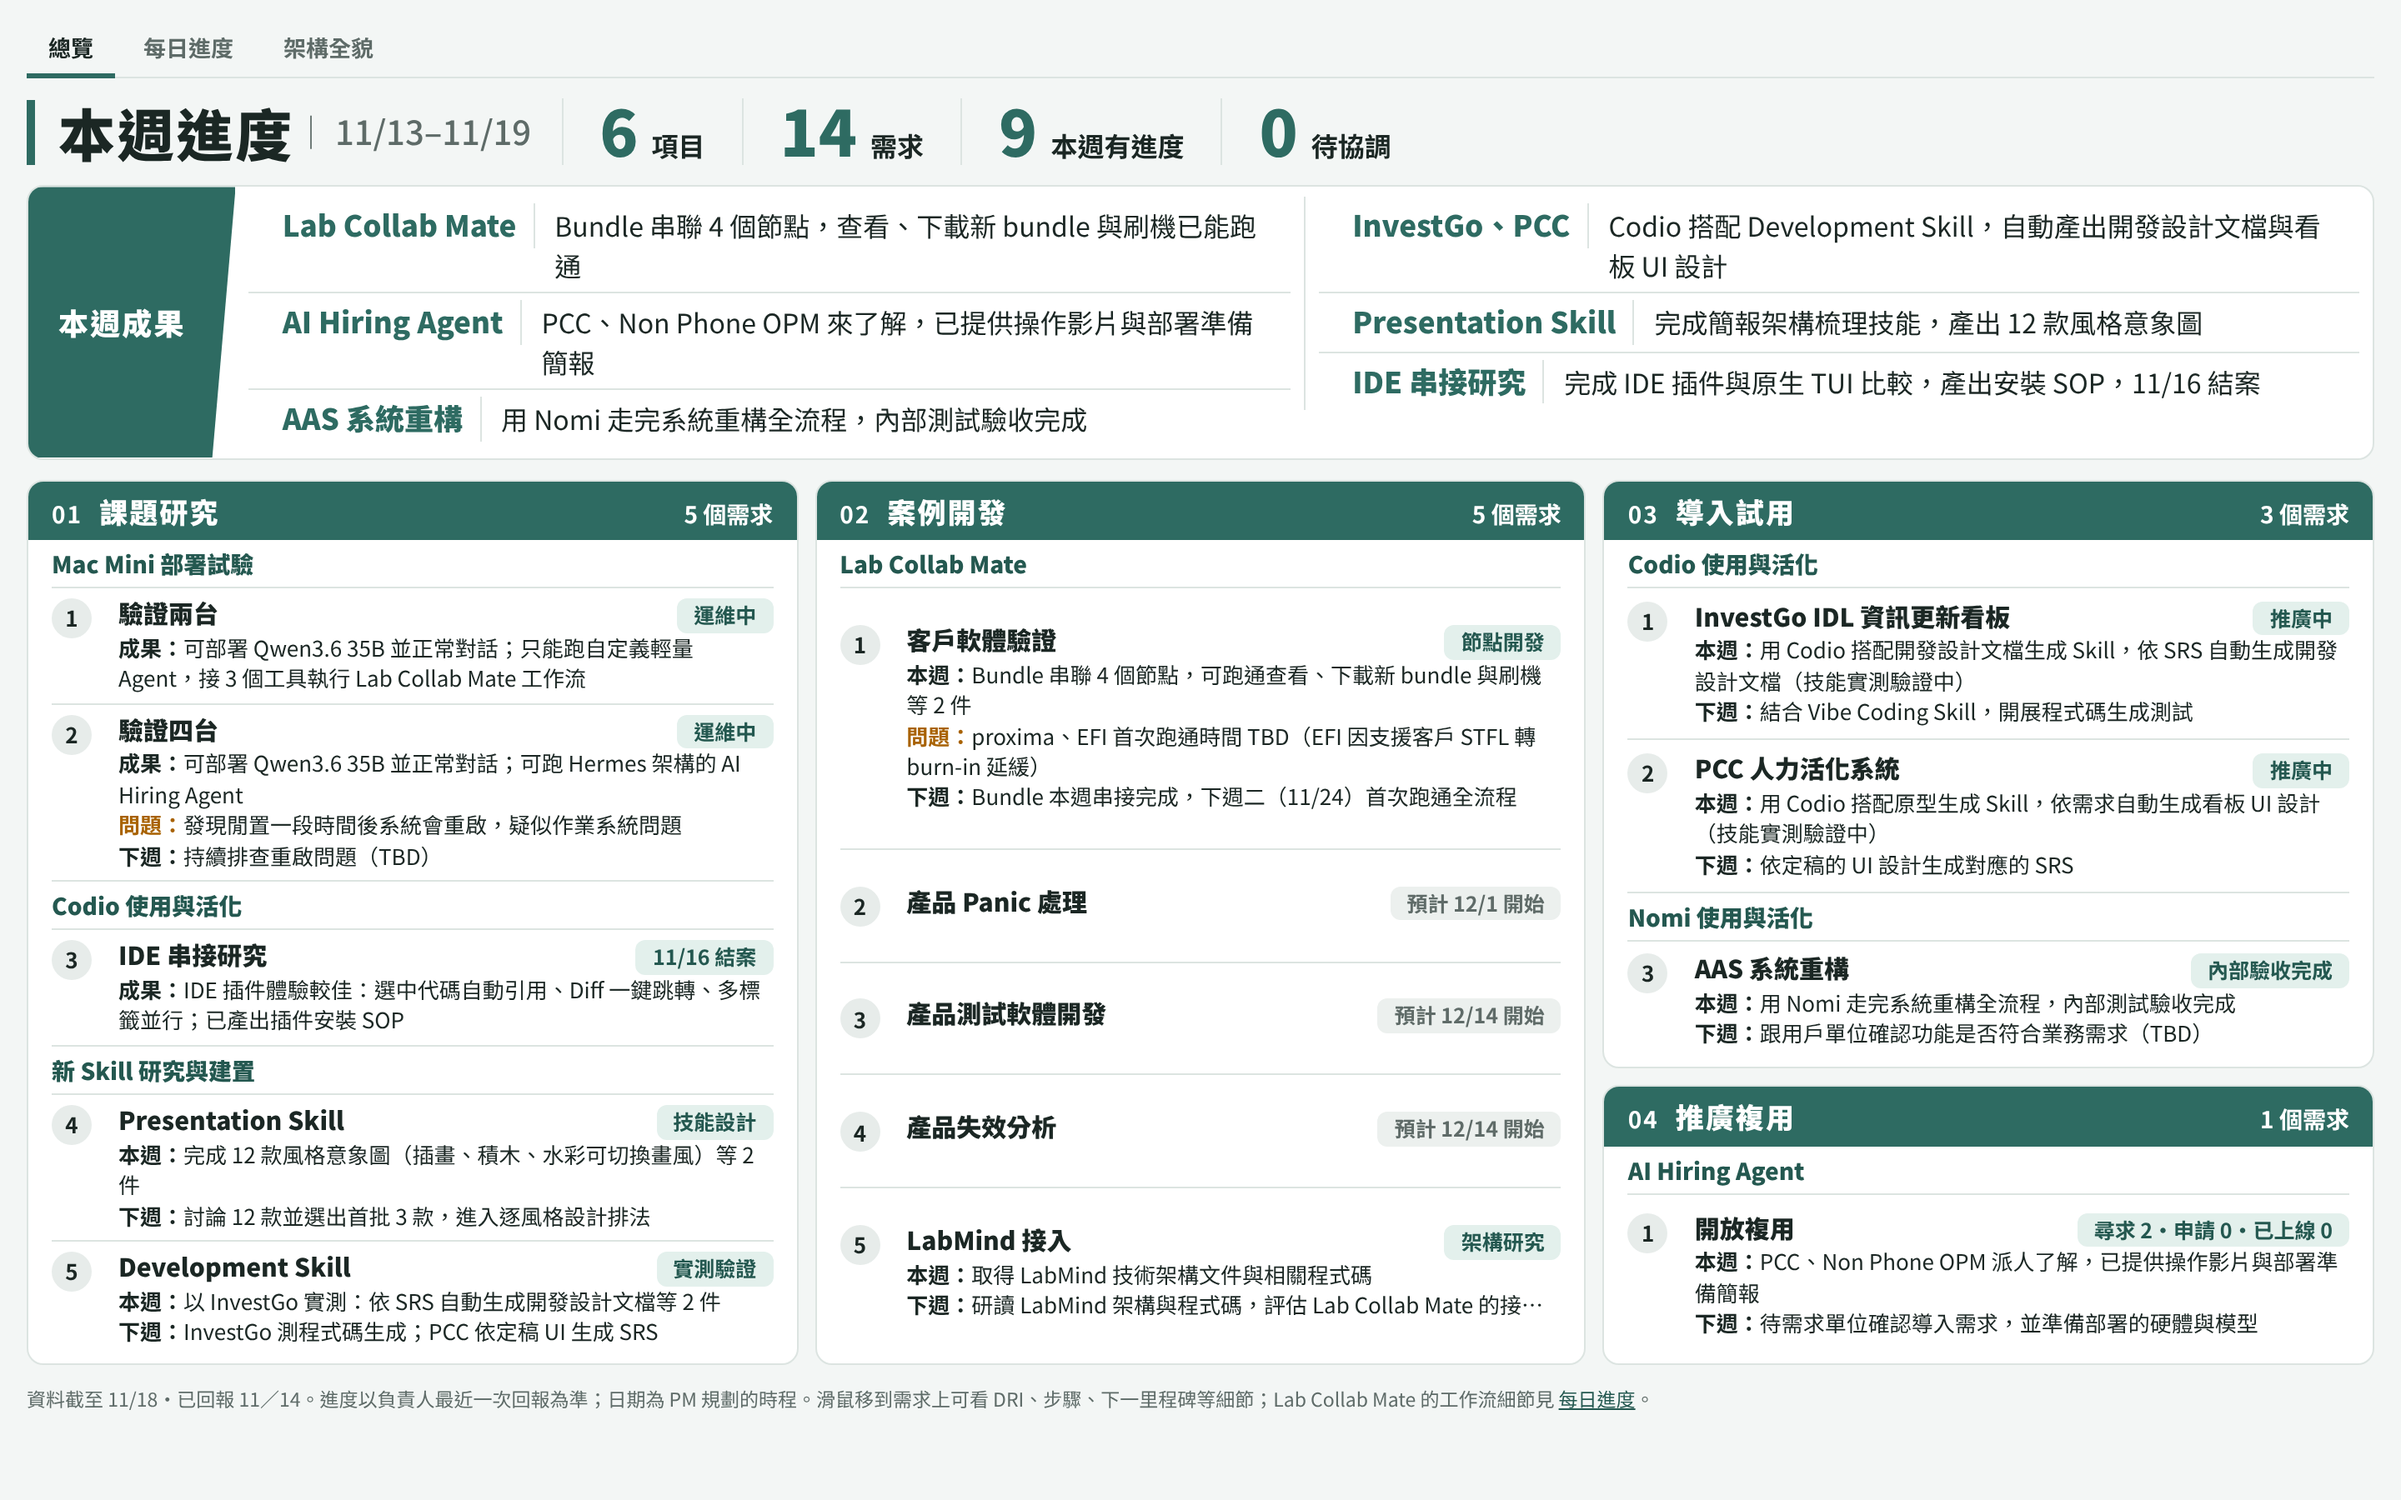
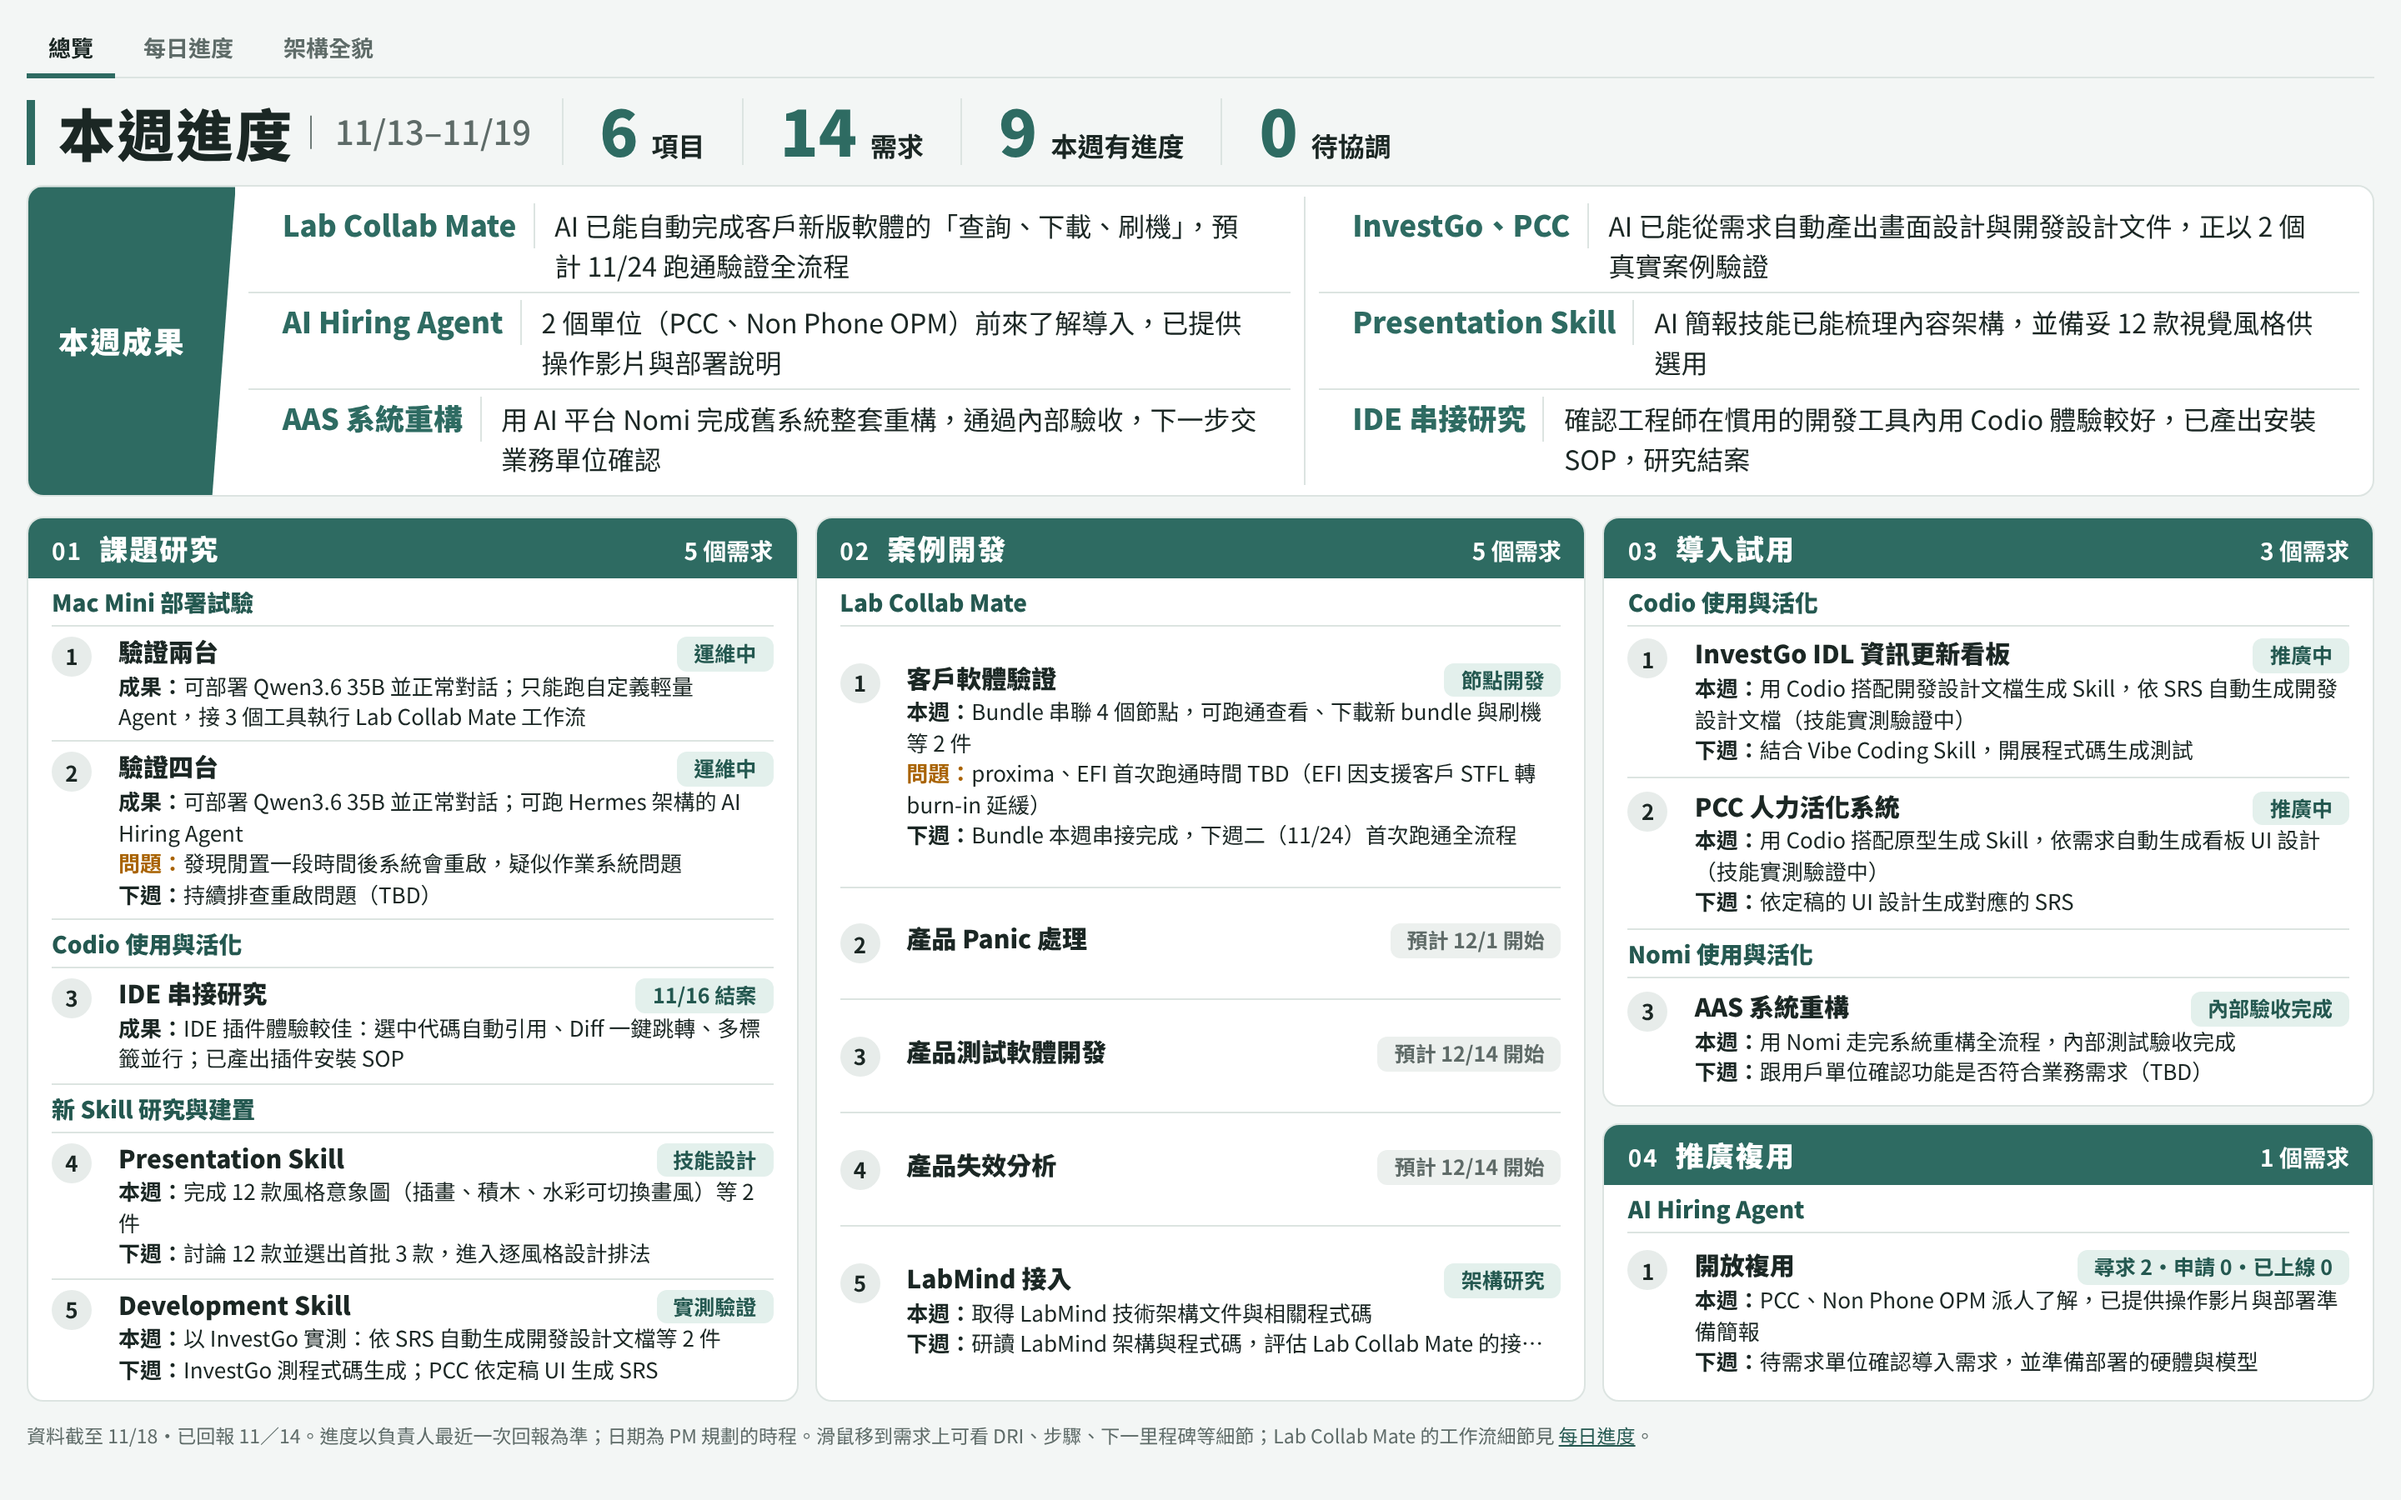
[2026-11-17_overview-redesign] 本週成果改寫為副總看得懂的關鍵成果（去術語、寫結果與意義）
Claude-Session: https://claude.ai/code/session_01Cd6Gft6mTX8zcMZinAmXya

Changed region(s): [[0.0, 0.1244, 1.0, 0.9644], [0.5625, 0.5911, 0.6562, 0.7156], [0.0312, 0.1867, 0.0938, 0.2489]]

diff --git a/public/index.html b/public/index.html
@@ -202,14 +202,14 @@ const MODULES = [
      desc:"比較 Codio 的 IDE 插件與原生 TUI：插件在上手、多會話、閱讀輸出、選中代碼、引用檔案、跳回代碼都較直覺；TUI 把操作留在鍵盤上。產出 IDE 插件安裝 SOP（5 步）。11/16 結案，沒有規劃下一步。",
      rep:{pill:"11/16 結案", conclusion:"IDE 插件體驗較佳：選中代碼自動引用、Diff 一鍵跳轉、多標籤並行；已產出插件安裝 SOP",
           done:["完成 IDE 插件與原生 TUI 體驗比較，產出插件安裝 SOP，11/16 結案"], hideDone:true,
-          hl:[{i:0, o:6, s:"IDE 串接研究", t:"完成 IDE 插件與原生 TUI 比較，產出安裝 SOP，11/16 結案"}]}},
+          hl:[{i:0, o:6, s:"IDE 串接研究", t:"確認工程師在慣用的開發工具內用 Codio 體驗較好，已產出安裝 SOP，研究結案"}]}},
     {proj:"新 Skill 研究與建置", name:"Presentation Skill", type:"deliver", dri:"Alyanna", steps:SKILL, rel:"之後接上 Nomi",
      sub:{at:2, items:["目標／對象／架構／內容梳理","風格與排版","品管與檢查驗證"]},
      desc:"技能名 deck-architect（從頭到尾支援簡報全流程的 Skill）。進度來源：claude-base-skills repo 的 presentation-skill-generation 分支。目前在技能設計：方法論已用 4 份真實簡報驗證，正在做設計美感的風格定調；尚未用真實簡報從頭做到成品。",
      rep:{now:1,
           done:["完成 12 款風格意象圖（插畫、積木、水彩可切換畫風）", "依審閱回饋重做顧問報告、週報、攝影雜誌三款"],
           next:["討論 12 款並選出首批 3 款，進入逐風格設計排法"],
-          hl:[{i:0, o:5, s:"Presentation Skill", t:"完成簡報架構梳理技能，產出 12 款風格意象圖"}]}},
+          hl:[{i:0, o:5, s:"Presentation Skill", t:"AI 簡報技能已能梳理內容架構，並備妥 12 款視覺風格供選用"}]}},
     {proj:"新 Skill 研究與建置", name:"Development Skill", type:"deliver", dri:"Lucas", steps:SKILL, rel:"由 Codio 執行，InvestGo、PCC 驗證",
      sub:{at:2, items:["需求梳理","SRS","原型設計","開發設計文檔","程式碼生成校正","上線運維","測試用例生成"]},
      desc:"以 InvestGo 部門 IDL 資訊更新看板、PCC 人力活化系統兩個需求實測，與 Codio 的兩個案例共用驗證。",
@@ -222,7 +222,7 @@ const MODULES = [
      ms:[["2026-11-24","Bundle 首次跑通"],["2026-11-25","proxima 自動化節點開發完成"],["2026-12-01","Bundle 五次跑通"],["2026-12-11","正式上線（proxima、EFI 首次跑通 TBD）"]],
      rep:{now:1, subs:[["Bundle",1],["proxima",1],["EFI",1]],
           done:["Bundle 串聯 4 個節點，可跑通查看、下載新 bundle 與刷機", "Bundle 累計 9 個、proxima 6 個、EFI 1 個自動化節點"],
-          hl:[{i:0, s:"Lab Collab Mate", t:"Bundle 串聯 4 個節點，查看、下載新 bundle 與刷機已能跑通", o:1}],
+          hl:[{i:0, s:"Lab Collab Mate", t:"AI 已能自動完成客戶新版軟體的「查詢、下載、刷機」，預計 11/24 跑通驗證全流程", o:1}],
           issue:"proxima、EFI 首次跑通時間 TBD（EFI 因支援客戶 STFL 轉 burn-in 延緩）",
           next:["Bundle 本週串接完成，下週二（11/24）首次跑通全流程"]}},
     {proj:"Lab Collab Mate", name:"產品 Panic 處理", type:"deliver", dri:"Simon、Gary、熙宁", steps:WF, start:"2026-12-01",
@@ -243,7 +243,7 @@ const MODULES = [
      desc:"大型系統類開發：以 InvestGo 部門 IDL 資訊更新看板需求為試點，用 Codio 搭配開發 Skill 走開發流程。",
      rep:{done:["用 Codio 搭配開發設計文檔生成 Skill，依 SRS 自動生成開發設計文檔（技能實測驗證中）"],
           next:["結合 Vibe Coding Skill，開展程式碼生成測試"],
-          hl:[{i:0, o:4, s:"InvestGo、PCC", t:"Codio 搭配 Development Skill，自動產出開發設計文檔與看板 UI 設計"}]}},
+          hl:[{i:0, o:4, s:"InvestGo、PCC", t:"AI 已能從需求自動產出畫面設計與開發設計文件，正以 2 個真實案例驗證"}]}},
     {proj:"Codio 使用與活化", name:"PCC 人力活化系統", type:"promo", dri:"Lucas", rel:"與 Development Skill 共用驗證",
      desc:"大型系統類開發：以 PCC 人力活化系統需求為試點，用 Codio 搭配開發 Skill 走開發流程。",
      rep:{done:["用 Codio 搭配原型生成 Skill，依需求自動生成看板 UI 設計（技能實測驗證中）"],
@@ -254,14 +254,14 @@ const MODULES = [
      rep:{now:5, pill:"內部驗收完成",
           done:["用 Nomi 走完系統重構全流程，內部測試驗收完成"],
           next:["跟用戶單位確認功能是否符合業務需求（TBD）"],
-          hl:[{i:0, o:3, s:"AAS 系統重構", t:"用 Nomi 走完系統重構全流程，內部測試驗收完成"}]}}
+          hl:[{i:0, o:3, s:"AAS 系統重構", t:"用 AI 平台 Nomi 完成舊系統整套重構，通過內部驗收，下一步交業務單位確認"}]}}
   ]},
   {no:"④", name:"推廣複用", col:2, reqs:[
     {proj:"AI Hiring Agent", name:"開放複用", type:"promo", dri:"Alyanna", nums:["尋求","申請","已上線"], numUnit:"單位",
      rep:{nums:{"尋求":2, "申請":0, "已上線":0},
           done:["PCC、Non Phone OPM 派人了解，已提供操作影片與部署準備簡報"],
           next:["待需求單位確認導入需求，並準備部署的硬體與模型"],
-          hl:[{i:0, o:2, s:"AI Hiring Agent", t:"PCC、Non Phone OPM 來了解，已提供操作影片與部署準備簡報"}]}}
+          hl:[{i:0, o:2, s:"AI Hiring Agent", t:"2 個單位（PCC、Non Phone OPM）前來了解導入，已提供操作影片與部署說明"}]}}
   ]}
 ];
 
